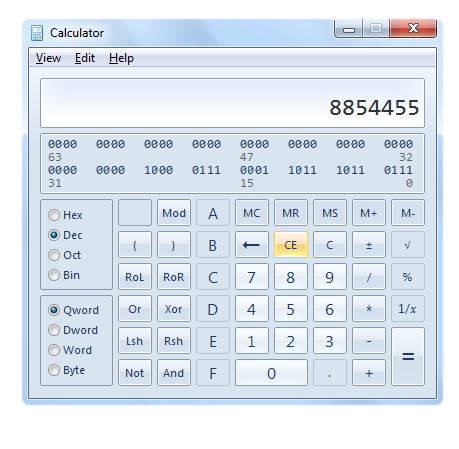
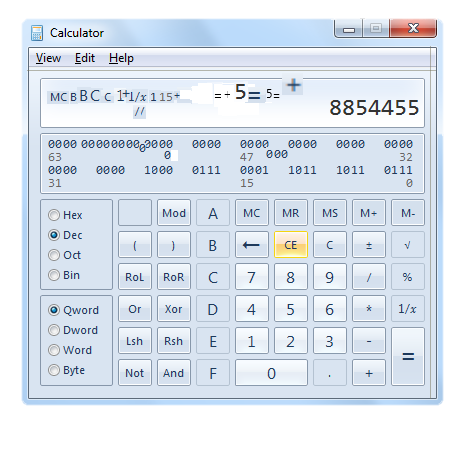
windows calculator hw

diff --git a/WebSites/CSS-Presentation/WindowsCalculator.html b/WebSites/CSS-Presentation/WindowsCalculator.html
@@ -5,98 +5,145 @@
     <link rel="stylesheet" type="text/css" href="WindowsCalculator.css" />
 </head>
 <body>
+    <header>
+        Calculator
+    </header>
     <section>
         <header>
-
+            <ul>
+                <li><a href="#">V</a>iew</li>
+                <li><a href="#">E</a>dit</li>
+                <li><a href="#">H</a>elp</li>
+            </ul>
         </header>
         <table>
             <tr>
-                <td colspan="9" id="decimal">8854455</td>
+                <td colspan="9" id="number-display">8854455</td>
             </tr>
             <tr>
-                <td colspan="9" id="binary"></td>
+                <td colspan="9" id="bit-values">
+                    <table>
+                        <tr class="bits">
+                            <td>0000</td>
+                            <td>0000</td>
+                            <td>0000</td>
+                            <td>0000</td>
+                            <td>0000</td>
+                            <td>0000</td>
+                            <td>0000</td>
+                            <td>0000</td>
+                        </tr>
+                        <tr class="bit-positions">
+                            <td>63</td>
+                            <td></td>
+                            <td></td>
+                            <td></td>
+                            <td>47</td>
+                            <td></td>
+                            <td></td>
+                            <td><span class="invisible">00</span>32</td>
+                        </tr>
+                        <tr class="bits">
+                            <td>0000</td>
+                            <td>0000</td>
+                            <td>1000</td>
+                            <td>0111</td>
+                            <td>0001</td>
+                            <td>1011</td>
+                            <td>1011</td>
+                            <td>0111</td>
+                        </tr>
+                        <tr class="bit-positions">
+                            <td>31</td>
+                            <td></td>
+                            <td></td>
+                            <td></td>
+                            <td>15</td>
+                            <td></td>
+                            <td></td>
+                            <td><span class="invisible">000</span>0</td>
+                        </tr>
+                    </table>
+                </td>
             </tr>
             <tr>
-                <td rowspan="4"></td>
-                <td></td>
-                <td></td>
-                <td></td>
-                <td></td>
-                <td></td>
-                <td></td>
-                <td></td>
-                <td></td>
+                <td rowspan="3" id="numeral-system" class="simple-border">
+                    <input type="radio" id="hex" name="systems" />
+                    <label for="hex">Hex</label><br />
+                    <input type="radio" id="dec" name="systems" checked="checked" />
+                    <label for="dec">Dec</label><br />
+                    <input type="radio" id="oct" name="systems" />
+                    <label for="oct">Oct</label><br />
+                    <input type="radio" id="bin" name="systems" />
+                    <label for="bin">Bin</label><br />
+                </td>
+                <td class="simple-border">&nbsp;</td>
+                <td class="operation-keys">Mod</td>
+                <td class="digit-keys inactive-keys">A</td>
+                <td class="memory-keys">MC</td>
+                <td class="memory-keys">MR</td>
+                <td class="memory-keys">MS</td>
+                <td class="memory-keys">M+</td>
+                <td class="memory-keys">M-</td>
             </tr>
             <tr>
-                <td></td>
-                <td></td>
-                <td></td>
-                <td></td>
-                <td></td>
-                <td></td>
-                <td></td>
-                <td></td>
+                <td class="operation-keys">(</td>
+                <td class="operation-keys">)</td>
+                <td class="digit-keys inactive-keys">B</td>
+                <td class="operation-keys" id="back-space">←</td>
+                <td class="operation-keys">CE</td>
+                <td class="operation-keys">C</td>
+                <td class="operation-keys">±</td>
+                <td class="inactive-keys">√</td>
             </tr>
             <tr>
-                <td></td>
-                <td></td>
-                <td></td>
-                <td></td>
-                <td></td>
-                <td></td>
-                <td></td>
-                <td></td>
+                <td class="operation-keys">RoL</td>
+                <td class="operation-keys">RoR</td>
+                <td class="digit-keys inactive-keys">C</td>
+                <td class="digit-keys decimal-digits">7</td>
+                <td class="digit-keys decimal-digits">8</td>
+                <td class="digit-keys decimal-digits">9</td>
+                <td class="operation-keys">/</td>
+                <td class="inactive-keys">%</td>
             </tr>
             <tr>
-                <td></td>
-                <td></td>
-                <td></td>
-                <td></td>
-                <td></td>
-                <td></td>
-                <td></td>
-                <td></td>
+                <td rowspan="3" id="data-type" class="simple-border">
+                    <input type="radio" id="qword" name="types" checked="checked" />
+                    <label for="qword">Qword</label><br />
+                    <input type="radio" id="dword" name="types" />
+                    <label for="dword">Dword</label><br />
+                    <input type="radio" id="word" name="types" />
+                    <label for="word">Word</label><br />
+                    <input type="radio" id="byte" name="types" />
+                    <label for="byte">Byte</label><br />
+                </td>
+                <td class="operation-keys">Or</td>
+                <td class="operation-keys">Xor</td>
+                <td class="digit-keys inactive-keys">D</td>
+                <td class="digit-keys decimal-digits">4</td>
+                <td class="digit-keys decimal-digits">5</td>
+                <td class="digit-keys decimal-digits">6</td>
+                <td class="operation-keys">*</td>
+                <td id="reciprocal" class="inactive-keys">1/<span class="italics">x</span></td>
             </tr>
             <tr>
-                <td rowspan="4"></td>
-                <td></td>
-                <td></td>
-                <td></td>
-                <td></td>
-                <td></td>
-                <td></td>
-                <td></td>
-                <td></td>
+                <td class="operation-keys">Lsh</td>
+                <td class="operation-keys">Rsh</td>
+                <td class="digit-keys inactive-keys">E</td>
+                <td class="digit-keys decimal-digits">1</td>
+                <td class="digit-keys decimal-digits">2</td>
+                <td class="digit-keys decimal-digits">3</td>
+                <td class="operation-keys">-</td>
+                <td rowspan="2" class="operation-keys large-font">=</td>
             </tr>
             <tr>
-                <td></td>
-                <td></td>
-                <td></td>
-                <td></td>
-                <td></td>
-                <td></td>
-                <td></td>
-                <td></td>
+                <td class="operation-keys">Not</td>
+                <td class="operation-keys">And</td>
+                <td class="digit-keys inactive-keys">F</td>
+                <td colspan="2" class="digit-keys decimal-digits">0</td>
+                <td class="inactive-keys">.</td>
+                <td class="operation-keys">+</td>
             </tr>
-            <tr>
-                <td></td>
-                <td></td>
-                <td></td>
-                <td></td>
-                <td></td>
-                <td></td>
-                <td></td>
-                <td rowspan="2"></td>
-            </tr>
-            <tr>
-                <td></td>
-                <td></td>
-                <td></td>
-                <td colspan="2"></td>
-                <td></td>
-                <td></td>
-            </tr>
-
         </table>
     </section>
 </body>

diff --git a/WebSites/CSS-Presentation/WindowsCalculator.css b/WebSites/CSS-Presentation/WindowsCalculator.css
@@ -1,10 +1,31 @@
 body {
-
+    font-family: 'Segoe UI', Arial;
+    font-size: 11px;
 }
 section {
     border: 1px solid #5C6A79;
-    width: 421px;
-    height: 386px;
+    width: 399px;
+}
+section header {
+    height: 1.5em;
+    /* Firefox 3.6+ */
+    background: -moz-linear-gradient(100% 100% 90deg, #DFE4F4, #FEFEFF);
+    /* Safari 5.1+, Chrome 10+ */
+    background: -webkit-linear-gradient(#FEFEFF, #DFE4F4);
+    /* Opera 11.10+ */
+    background: -o-linear-gradient(#FEFEFF, #DFE4F4);
+}
+a {
+    color: black;
+}
+ul {
+    list-style: none;
+    margin: 0 0 0 7px;
+    padding: 0;
+}
+li {
+    display: inline;
+    margin-right: 12px;
 }
 table {
     /* Firefox 3.6+ */
@@ -13,20 +34,101 @@ table {
     background: -webkit-linear-gradient(#EDF4FC, #D9E4F1);
     /* Opera 11.10+ */
     background: -o-linear-gradient(#EDF4FC, #D9E4F1);
+    padding: 11px 6px 7px 11px;
+    border-collapse: separate;
 }
 td {
-    border: 1px solid black;
-    width: 34px;
+    border: 1px solid #8898AB;
+    width: 32px;
     height: 27px;
     border-radius: 3px;
+    margin: 0px 7px 7px 0px;
+    text-align: center;
 }
-td:first-child {
-    width: 73px;
+td[rowspan="3"] {
+    width: 71px;
+    text-align: left;
 }
-#decimal {
-    height: 50px;
+#number-display {
+    font-family: Consolas;
+    height: 48px;
     text-align: right;
+    font-size: 24px;
+    font-weight: normal;
+    /* Firefox 3.6+ */
+    background: -moz-linear-gradient(100% 100% 90deg, #FFFFFF, #E6EFFB);
+    /* Safari 5.1+, Chrome 10+ */
+    background: -webkit-linear-gradient(#E6EFFB, #FFFFFF);
+    /* Opera 11.10+ */
+    background: -o-linear-gradient(#E6EFFB, #FFFFFF);
 }
-#binary {
-    height: 61px;
+#bit-values {
+    font-family: Consolas;
+    font-size: 12px;
+    font-weight: bold;
+    height: 59px;
+}
+td > table {
+    border-collapse: collapse;
+    width: 100%;
+    padding: 0;
+    margin: 0;
+}
+td td {
+    border: none;
+    padding: 0 6px 0 5px;
+    width: 12%;
+    height: 1em;
+    text-align: left;
+}
+span.invisible {
+    visibility: hidden;
+}
+tr.bit-positions td {
+    color: #8F6666;
+}
+label {
+    vertical-align: 2px;
+}
+#reciprocal {
+    font-size: 13px;
+}
+span.italics {
+    font-style: italic;
+    font-family: 'Times New Roman';
+}
+.digit-keys {
+    font-size: 17px;
+}
+.decimal-digits {
+    /* Firefox 3.6+ */
+    background: -moz-linear-gradient(100% 100% 90deg, #F1F9FE, #F7FBFF);
+    /* Safari 5.1+, Chrome 10+ */
+    background: -webkit-linear-gradient(#F7FBFF, #F1F9FE);
+    /* Opera 11.10+ */
+    background: -o-linear-gradient(#F7FBFF, #F1F9FE);
+}
+.inactive-keys {
+    border-color: #B4C2D1;
+}
+.simple-border {
+    border-color: #8696AA;
+}
+.memory-keys {
+    border-style: outset;
+}
+.operation-keys {
+    /* Firefox 3.6+ */
+    background: -moz-linear-gradient(100% 100% 90deg, #D7E2EF, #F0F6FB);
+    /* Safari 5.1+, Chrome 10+ */
+    background: -webkit-linear-gradient(#F0F6FB, #D7E2EF);
+    /* Opera 11.10+ */
+    background: -o-linear-gradient(#F0F6FB, #D7E2EF);
+}
+.large-font {
+    font-size: 27px;
+}
+#back-space {
+    font-size: 22px;
+    font-weight: bold;
 }
